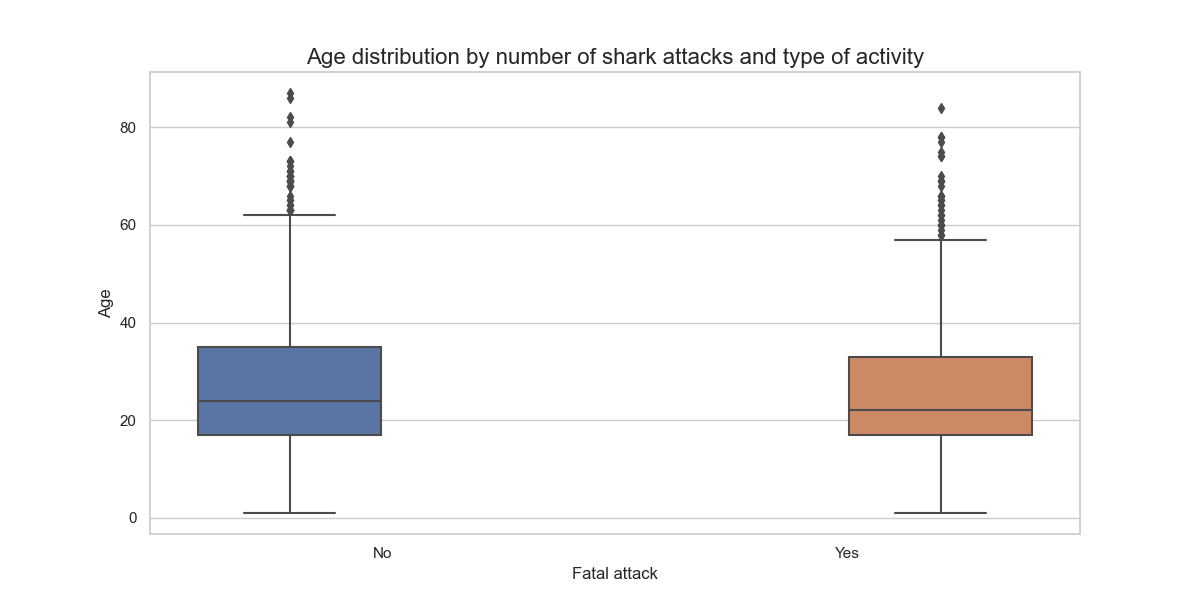
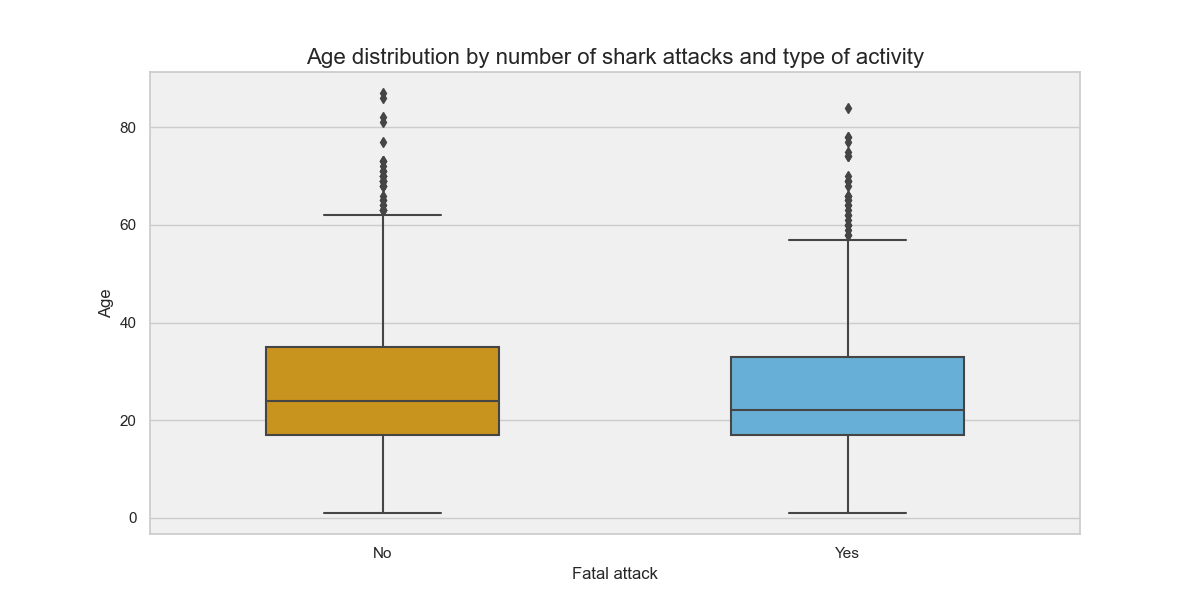
uploading

diff --git a/src/visualization.py b/src/visualization.py
@@ -72,7 +72,12 @@ def visualizing_question_2_a (df):
 def visualizing_question_2_b (df):
  
     # 1. Create boxplot
-    graph = sns.boxplot(data=df, x="fatal_(y/n)", y="age", hue="fatal_(y/n)")
+    
+    colors = ['#E69F00', '#56B4E9'] 
+    ax = sns.boxplot(data=df, x="fatal_(y/n)", y="age", hue="fatal_(y/n)", palette = colors, dodge=False, width=0.5)
+    ax.set_facecolor('#F0F0F0')
+
+
     plt.gca().get_legend().remove()
     plt.xlabel("Fatal attack")
     plt.ylabel("Age")
